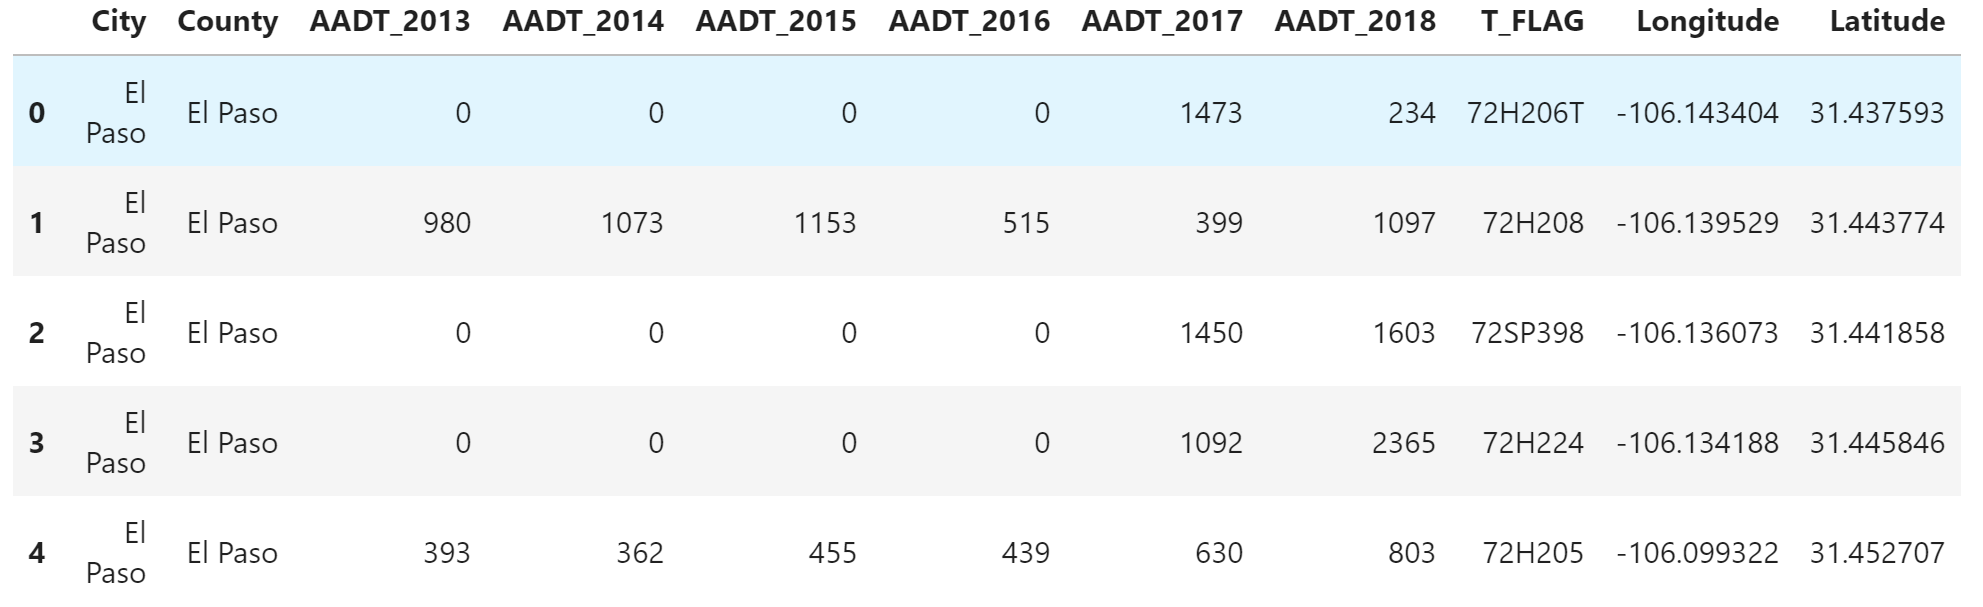
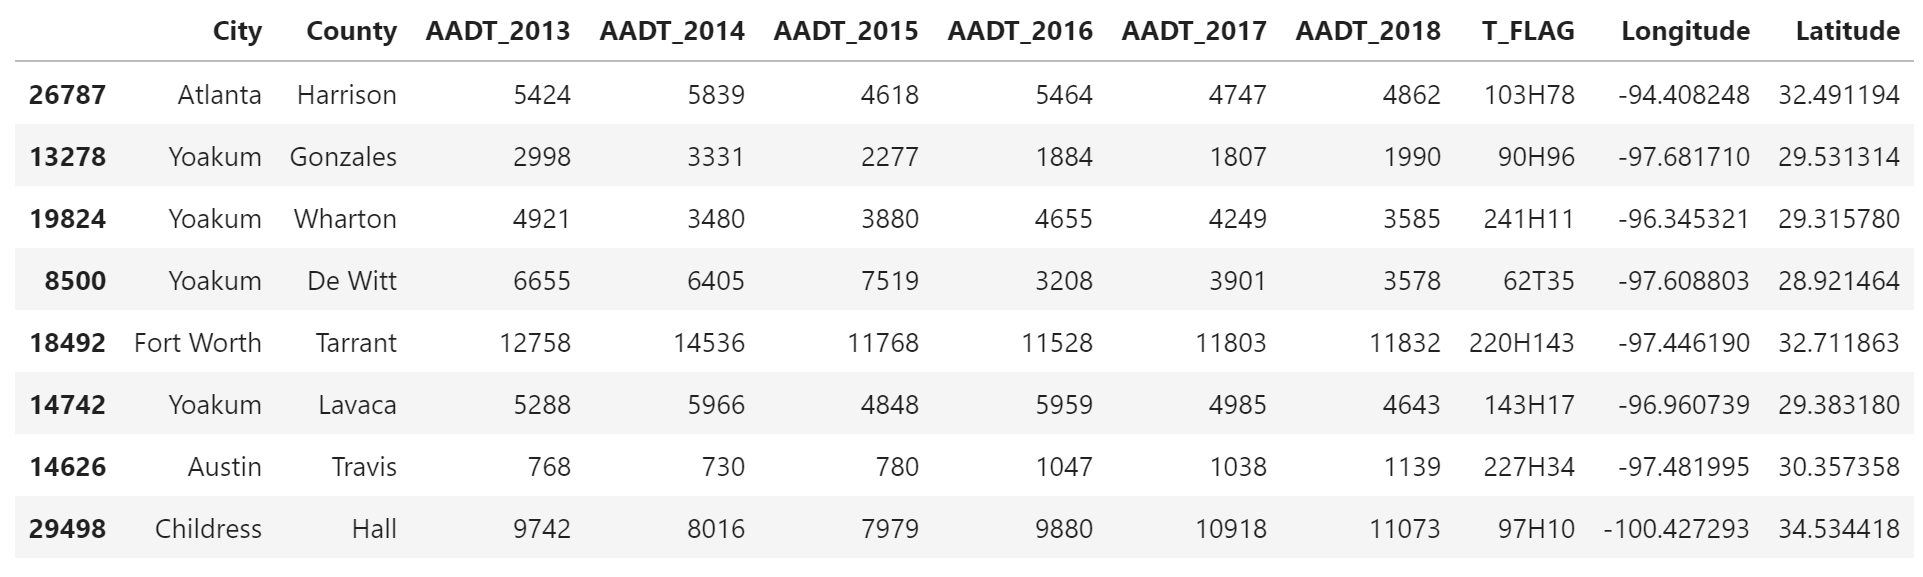
updated code to get sample of DataFrame

diff --git a/Traffic_Density/README.md b/Traffic_Density/README.md
@@ -8,7 +8,7 @@ Has Traffic in Austin been getting worse over the years? What is the worst time 
 
 
 Below is an example of what the data looks like from TXdot API. 
-![alt test](Pictures/txdot_api_data.png)
+![alt test](Pictures/txdot_api_data.PNG)
 
 
 The graph below shows the trend of traffic density from 2014 to 2018. Using two points on I35 and Mopac we were able to calculate the traffic desity on two of Austin's major Highways. We calculated traffic density by averaging the annual daily traffic between the two points and then dividing the length between the two points. The distance between each site is about 4 miles. Looking at the figure, I35 looks like it did not increase much but when looking at the numbers the 4 miles on I35 increased by 15,000 and on Mopac, the density increased by 45,000.
